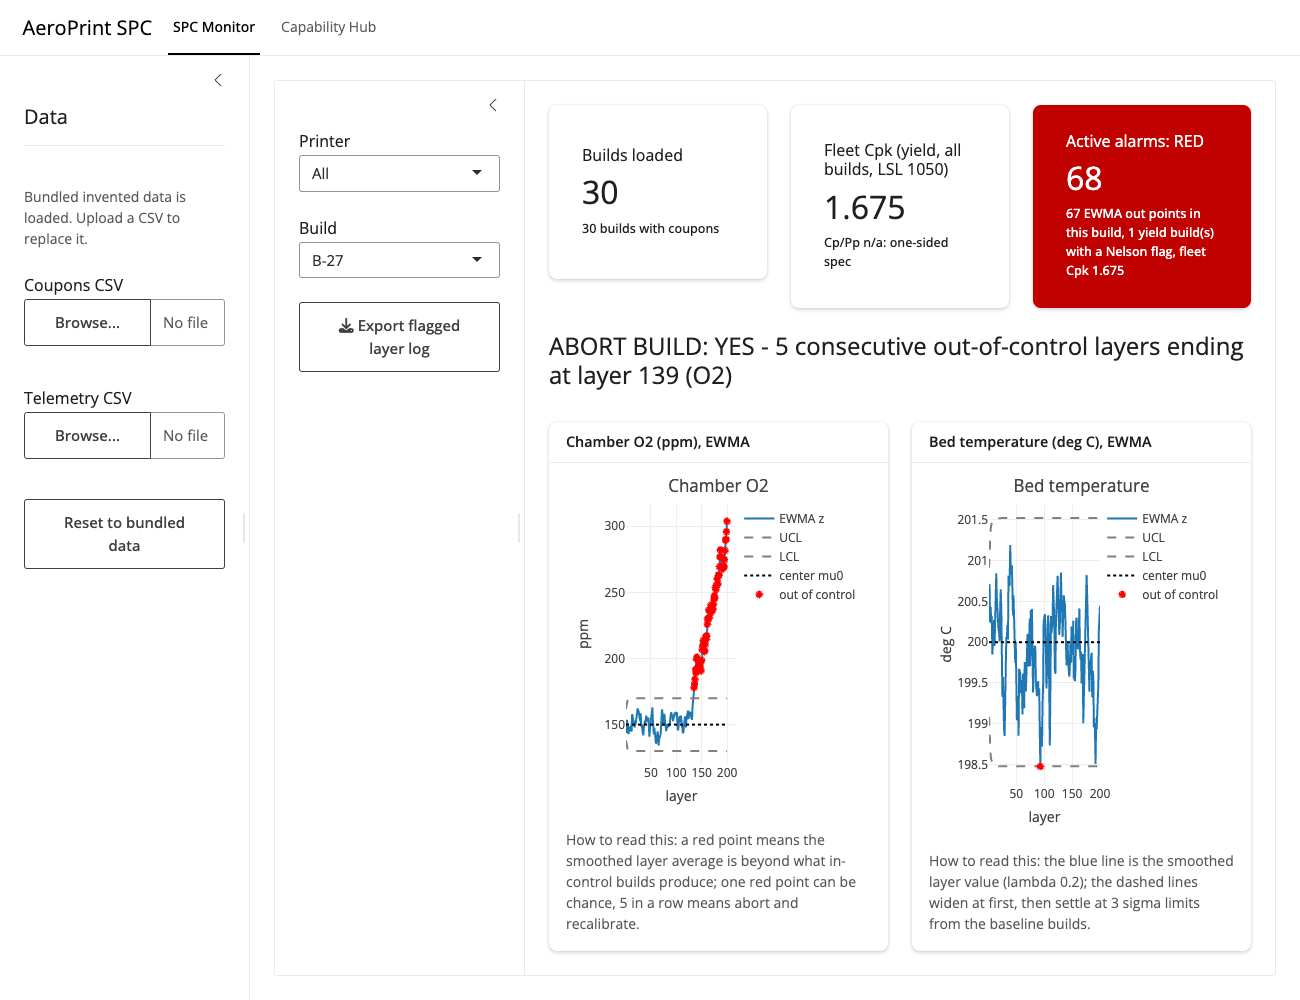
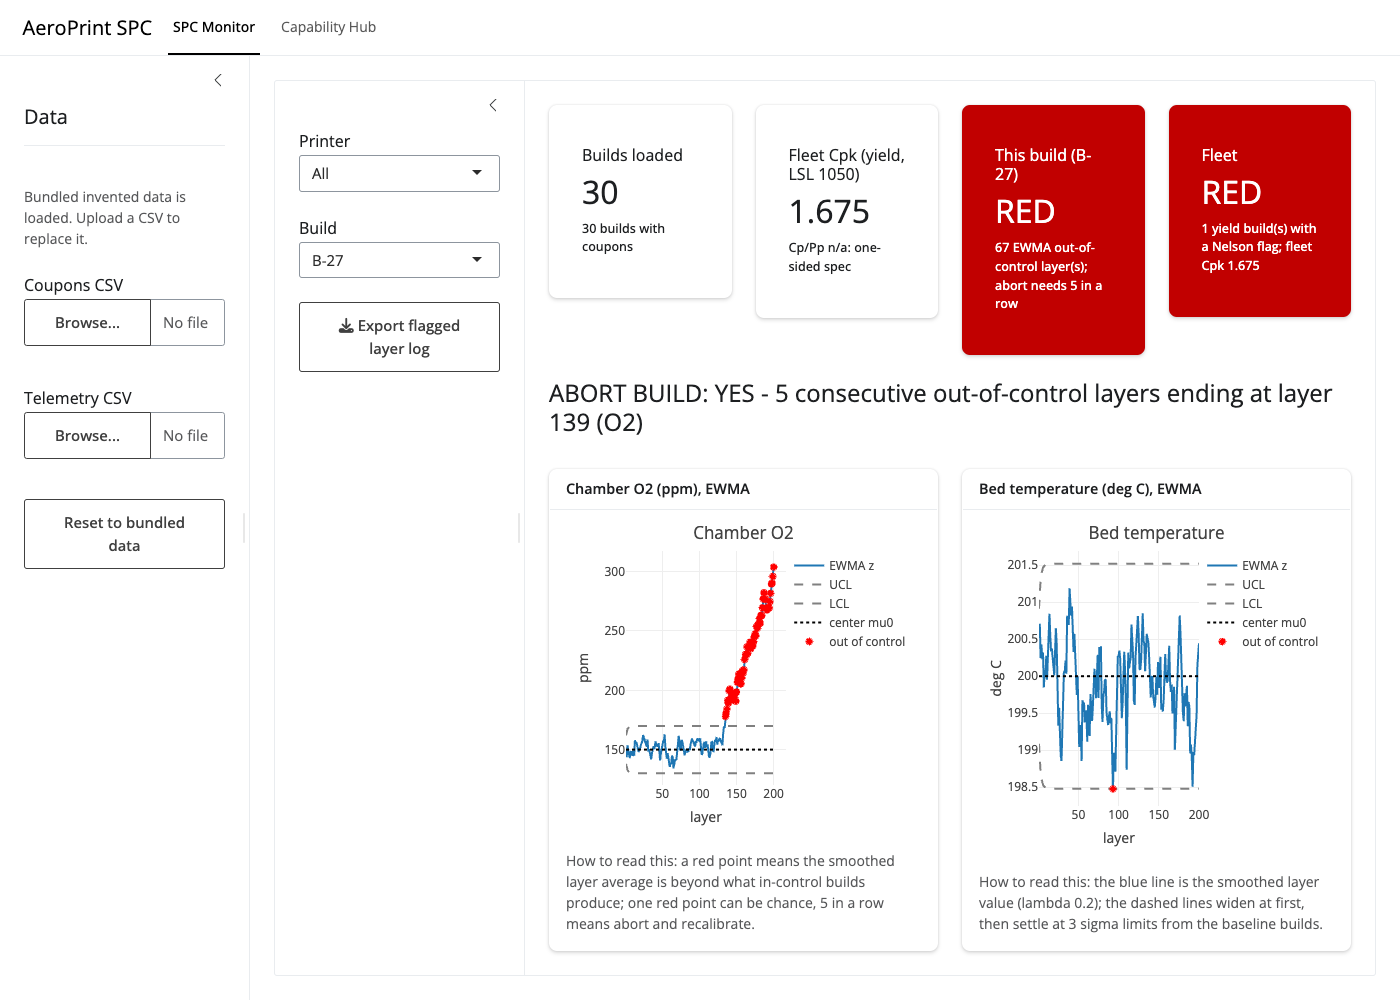
H-11: in-app Docs tab (how to use, how to read, formulas, who made it); check in H-10

diff --git a/docs/plan.md b/docs/plan.md
@@ -32,7 +32,7 @@ Statistics first, then the tool, then the page. Every formula lives in `app/qc.R
 6. **H-05 demo** (`demo/`), ~1 h. Walk through each CSV: numbers shown, chart, how to read it.
 7. **H-07 README** (`README.md`, `app/README.md`), ~1 h. Every input, function, one-command run, live URL.
 8. **H-08 second half**: fresh clone, `testme` and tests pass, `git grep -i api_key` clean, Devpost submitted.
-9. **Stretch (needs a new task H-11, agreed first)**: page 3 table of non-conforming builds + O2 vs yield scatter.
+9. **Stretch (needs a new task H-12, agreed first)**: page 3 table of non-conforming builds + O2 vs yield scatter.
 
 ## Decisions (2026-10-16)
 - Scope: capability + SPC (X-bar/S, EWMA, Nelson 1-4). Lasso/RF, PDF report, live feed out of scope.

diff --git a/README.md b/README.md
@@ -127,6 +127,10 @@ All functions are plain base R. Errors are `stop()` messages; the app catches th
 
 The sidebar on both pages uploads your own coupons or telemetry CSV, or resets to the bundled data.
 
+**Docs (page 3)**
+- In-app help: what the tool is for, a quick start, the CSV columns, how to read every output, the formulas and
+  assumptions (collapsible), and who made it. Text only, in `app/docs.R`.
+
 ## 7. Test datasets (details in [data/README.md](data/README.md))
 
 - `data/telemetry.csv`: 30 builds x 200 layers; B-27 has a planted O2 ramp from layer 120 (EWMA catches it).
